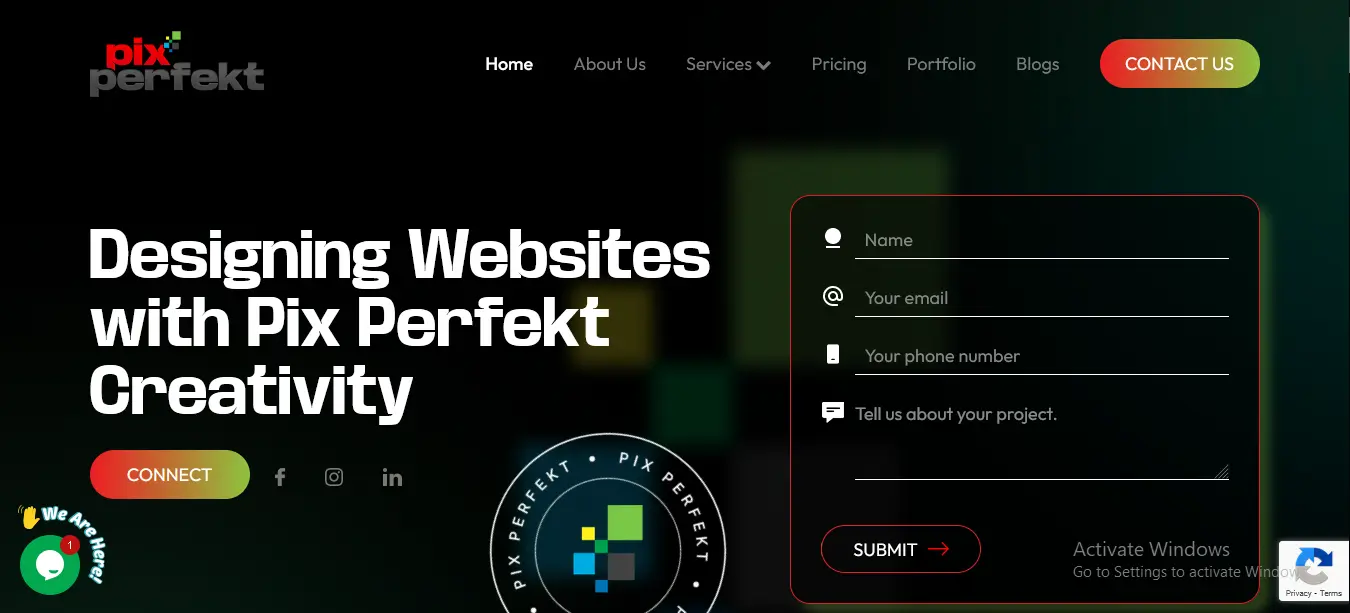
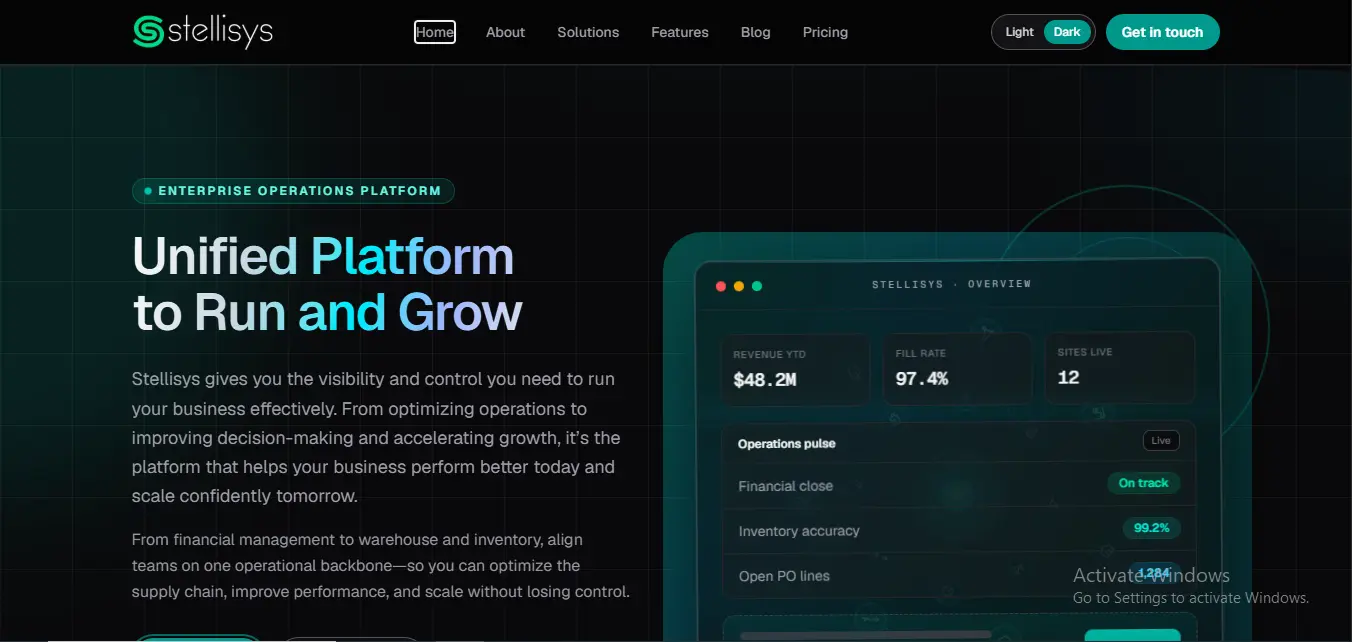
fixed styling issues

diff --git a/src/app/page.js b/src/app/page.js
@@ -19,7 +19,7 @@ export default function Home() {
                 <div className="">
                   <a
                     href="/assets/pdfs/Muhammad Huzaif.pdf"
-                    download="Muhammad_Huzaif_CV.pdf"
+                    download="Muhammad_Huzaif.pdf"
                     className="btn btn-primary btn-lg"
                     style={{
                       backgroundColor: '#fff',
@@ -81,7 +81,7 @@ export default function Home() {
               <div className="bg-theme border-radius p-4 p-md-5 box-shadow h-100 d-flex align-items-center">
                 <div>
                   <div className="h1 display-2 font-family-tertiary fw-semi-bold stroke-text text-fade">
-                    1 Years
+                    1.5 Years
                   </div>
                   <span className="text-white">
                     enhancing user satisfaction through innovative frontend
@@ -97,7 +97,7 @@ export default function Home() {
         <div className="container">
           <div className="row  justify-content-center">
             <div className="col-12 col-xl-2  text-xl-start">
-              <div className="h1 display-1 fw-medium text-charcoal">1</div>
+              <div className="h1 display-1 fw-medium text-charcoal">1.5</div>
               <p>Years of Experience</p>
             </div>
             <div className="col-12 col-xl-9 col-xxl-10">
@@ -288,29 +288,43 @@ export default function Home() {
             <div className="col-12 col-xxl-8">
               <div className="row g-2 g-lg-4 mt-3 mt-lg-1">
                 <div className="col-12 col-lg-4 text-lg-end">
-                  <div className="dashed-box font-small font-family-secondary fw-medium uppercase">
-                    2025 (JULY) - Current
+                  <div className="dashed-box font-small font-family-secondary fw-medium uppercase ">
+                    2025 (DECEMBER) - 2023 (OCTOBER)
                   </div>
                 </div>
                 <div className="col-12 col-lg-8">
                   <h4>
-                    FULL STACK Developer
+                    Full Stack Developer{' '}
                     <span className="fst-italic fw-medium text-lighter-30 ps-2">
-                      @Innova360
+                      @Fifth Thought
                     </span>
                   </h4>
-                  <p></p>
                 </div>
               </div>
               <div className="row g-2 g-lg-4 mt-3 mt-lg-1">
                 <div className="col-12 col-lg-4 text-lg-end">
                   <div className="dashed-box font-small font-family-secondary fw-medium uppercase">
-                    2024 (January ) - 2024(June)
+                    2025 (JULY) - 2025 (DECEMBER)
                   </div>
                 </div>
                 <div className="col-12 col-lg-8">
                   <h4>
-                    Front End Developer
+                    Full Stack Developer
+                    <span className="fst-italic fw-medium text-lighter-30 ps-2">
+                      @Innova360
+                    </span>
+                  </h4>
+                </div>
+              </div>
+              <div className="row g-2 g-lg-4 mt-3 mt-lg-1">
+                <div className="col-12 col-lg-4 text-lg-end">
+                  <div className="dashed-box font-small font-family-secondary fw-medium uppercase">
+                    2025 (January ) - 2025 (June)
+                  </div>
+                </div>
+                <div className="col-12 col-lg-8">
+                  <h4>
+                    Full Stack Developer (Internship)
                     <span className="fst-italic fw-medium text-lighter-30 ps-2">
                       @SmartSphere
                     </span>
@@ -319,28 +333,6 @@ export default function Home() {
                     Proficient in building responsive and user-friendly web
                     interfaces using HTML, CSS, and JavaScript frameworks like
                     React..
-                  </p> */}
-                </div>
-              </div>
-              <div className="row g-2 g-lg-4 mt-3 mt-lg-1">
-                <div className="col-12 col-lg-4 text-lg-end">
-                  <div className="dashed-box font-small font-family-secondary fw-medium uppercase ">
-                    2023 (OCTOBER) - 2023(JANUARY)
-                  </div>
-                </div>
-                <div className="col-12 col-lg-8">
-                  <h4>
-                    Front-End Developer{' '}
-                    <span className="fst-italic fw-medium text-lighter-30 ps-2">
-                      @Aykays
-                    </span>
-                  </h4>
-                  {/* <p>
-                    Gained expertise in CSS preprocessors (Sass)
-                    <br />
-                    Adept at using front-end libraries and frameworks
-                    (Bootstrap, Tailwind) to create scalable and maintainable
-                    designs
                   </p> */}
                 </div>
               </div>

diff --git a/src/components/Portfolio.jsx b/src/components/Portfolio.jsx
@@ -2,9 +2,9 @@
 import useEmblaCarousel from 'embla-carousel-react';
 import Image from 'next/image';
 import { useCallback } from 'react';
-import Dr from '../../public/drivenforgrowth.png';
+import Dr from '../../public/drivenforgrowth.webp';
 import pix from '../../public/pixperfekt.webp';
-import myst from '../../public/mystry-msg.webp';
+// import myst from '../../public/mystry-msg.webp';
 
 const Portfolio = () => {
   const [emblaRef, emblaApi] = useEmblaCarousel();
@@ -46,7 +46,7 @@ const Portfolio = () => {
                   />
                 </a>
               </div>
-              <div className="embla__slide">
+              {/* <div className="embla__slide">
                 <a href="https://mystery-msg-liart.vercel.app">
                   <Image
                     src={myst}
@@ -56,10 +56,10 @@ const Portfolio = () => {
                     height={9} // Adjust this for different aspect ratios
                   />
                 </a>
-              </div>{' '}
+              </div>{' '} */}
             </div>
           </div>
-          <button
+          {/* <button
             className="embla__prev nav-btn button-circle-gradient"
             onClick={scrollPrev}
           >
@@ -70,7 +70,7 @@ const Portfolio = () => {
             onClick={scrollNext}
           >
             <i className="fa fa-caret-right" aria-hidden="true"></i>
-          </button>
+          </button> */}
         </div>
       </div>
     </section>

diff --git a/src/components/Header.jsx b/src/components/Header.jsx
@@ -63,7 +63,7 @@ const Header = () => {
             {links.map((item, index) => (
               <li className="nav-list-item" key={index}>
                 {item.download ? (
-                  <a href={item.path} download="Muhammad_Huzaif_CV.pdf">
+                  <a href={item.path} download="Muhammad_Huzaif.pdf">
                     {item.title}
                   </a>
                 ) : (
@@ -71,14 +71,14 @@ const Header = () => {
                 )}
               </li>
             ))}
-            <li className="nav-list-item mobile-contact-info">
+            {/* <li className="nav-list-item mobile-contact-info">
               <div className="mt-4">
                 <h6 className="mb-2">Phone:</h6>
                 <p className="mb-3">+923122427270</p>
                 <h6 className="mb-2">Email:</h6>
                 <p>mhuzaif523@gmail.com</p>
               </div>
-            </li>
+            </li> */}
           </ul>
         </nav>
         <div className="header-logo">
